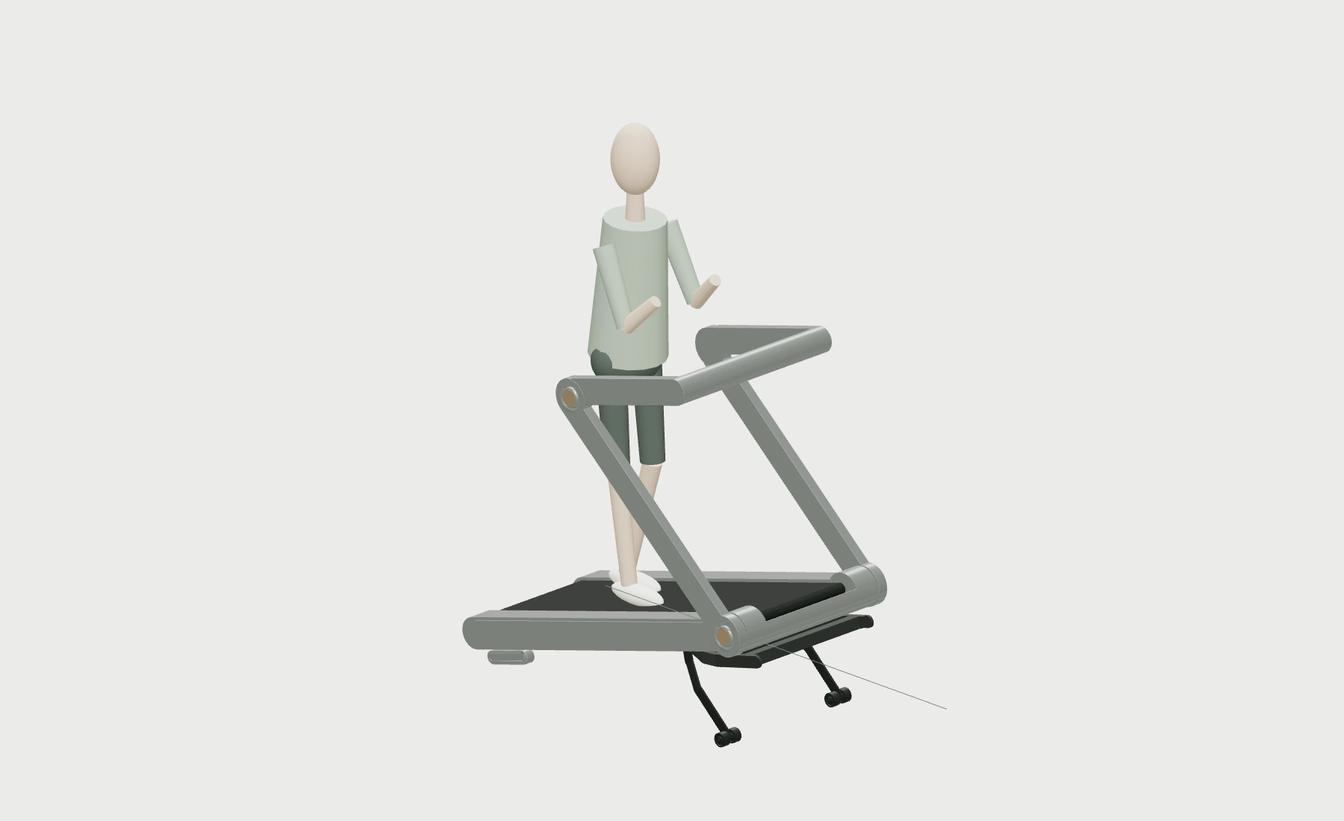
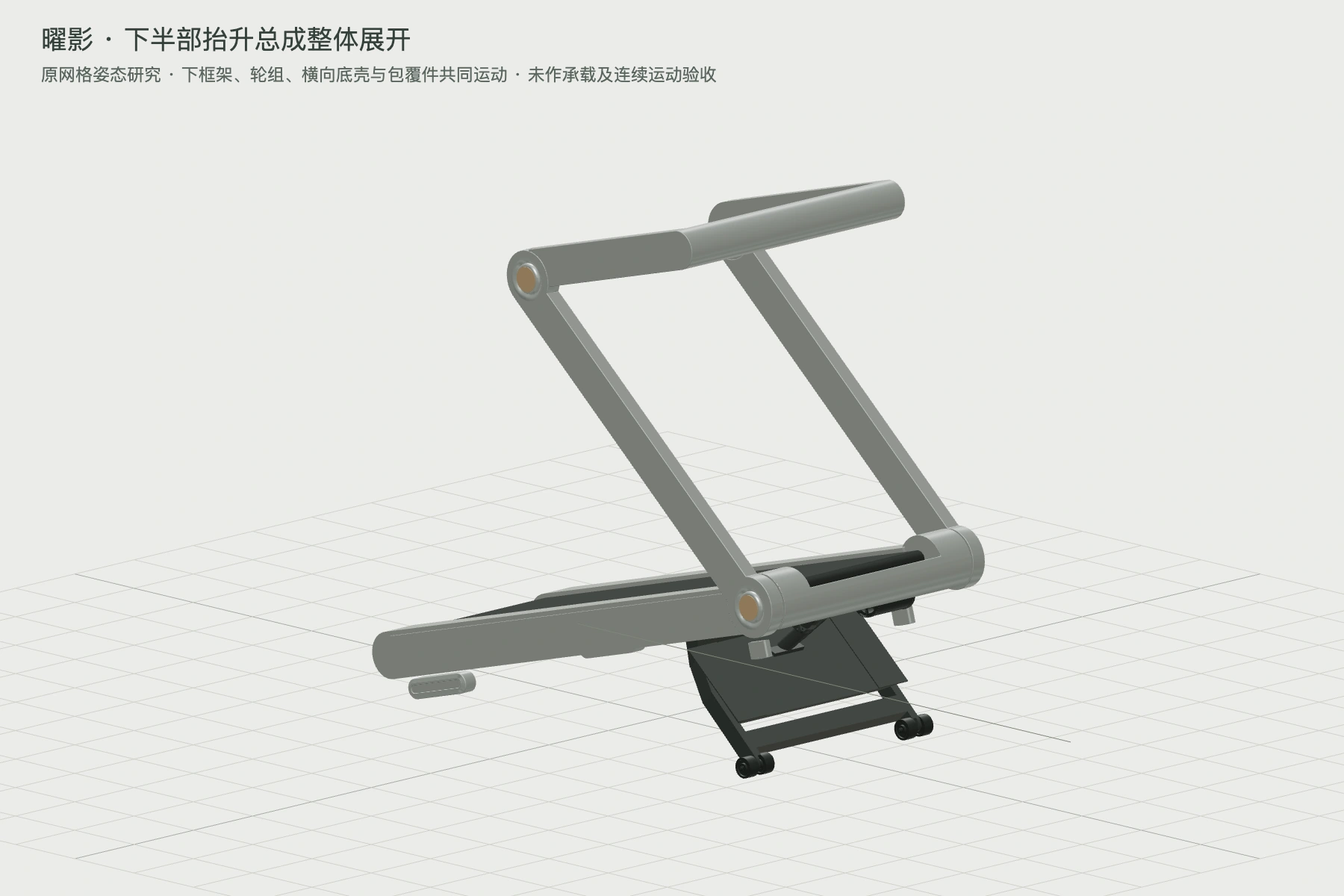
Move complete Origin lower frame and covers together; verify belt-to-floor 15 degrees and replace rejected lift views

Changed region(s): [[0.2489, 0.1545, 0.7467, 0.9273], [0.0311, 0.0309, 0.5289, 0.0927]]

diff --git a/iterations/origin/index.html b/iterations/origin/index.html
@@ -6,7 +6,7 @@
 <main id="top"><section class="intro"><div><p class="eyebrow">曜影 / DESIGN REVIEW</p><h1>曜影</h1><p class="lead">整机、使用与收纳姿态、离合片及前方出线。</p></div><div class="review-label"><span class="dot"></span>独立评审稿<span>整机 / 动作 / 选项</span></div></section>
 <div class="review-navigation"><nav class="single-navigation" aria-label="本方案目录"><a href="#whole">整机</a><a href="#incline-15">15°抬升态</a><a href="#motion">模型与动作</a><a href="#finishing">局部与选项</a><a href="#panels">面板提案</a></nav><button class="model-launch" id="open-model"><strong>进入曜影3D模型</strong><span>本方案独立模型 →</span></button></div>
 <section id="whole" aria-label="整机与家居效果图"><div class="section-heading"><span class="section-number">01</span><h2>整机形态</h2><p>点开图片，可放大查看</p></div><article class="product" data-product="origin"><section id="origin-indirect-edge-current" style="margin:24px 0;padding:24px;background:#e9e7e1"><h3>侧饰件整圈漫反射 · 后横梁保持银色不发光</h3><p>当前近景以用户指定最正确的R2原图为准，金属、轴心与橙色光晕保持原样。整机仅去掉后横梁多加的灯光：整圈指侧面长饰件的轮廓，不延伸到后横梁。当前为外观稿，未改入STEP。</p><figure style="margin:24px auto;max-width:1120px"><button class="zoom" data-image="https://calfnai.github.io/lijiujia-z7pro-model/iterations/origin-rear-unlit-20261115/whole.webp" data-title="曜影 · 整机 · 侧饰件漫反射，后横梁不发光" aria-label="放大整机 · 侧饰件漫反射，后横梁不发光" style="display:block;width:100%;padding:0;border:0;background:transparent"><img src="https://calfnai.github.io/lijiujia-z7pro-model/iterations/origin-rear-unlit-20261115/whole.webp" alt="曜影 · 整机 · 侧饰件漫反射，后横梁不发光" loading="lazy" width="1448" height="1086" style="width:100%;height:auto;aspect-ratio:auto;object-fit:contain"></button><figcaption>整机 · 侧饰件漫反射，后横梁不发光 · 内置imagegen生成，待评审。</figcaption></figure><figure style="margin:24px auto;max-width:1120px"><button class="zoom" data-image="https://calfnai.github.io/lijiujia-z7pro-model/iterations/origin-indirect-edge-r2-20261115/edge-detail.webp" data-title="曜影 · 近景 · 用户指定R2基准，原图保持" aria-label="放大近景 · 用户指定R2基准，原图保持" style="display:block;width:100%;padding:0;border:0;background:transparent"><img src="https://calfnai.github.io/lijiujia-z7pro-model/iterations/origin-indirect-edge-r2-20261115/edge-detail.webp" alt="曜影 · 近景 · 用户指定R2基准，原图保持" loading="lazy" width="2087" height="754" style="width:100%;height:auto;aspect-ratio:auto;object-fit:contain"></button><figcaption>近景 · 用户指定R2基准，原图保持 · 内置imagegen生成，待评审。</figcaption></figure></section><details id="origin-earlier-visuals" style="margin: 24px 0px; padding: 18px; border: 1px solid rgb(204, 204, 204);"><summary>此前整机与场景图 · 已退出当前外观评审；原STEP与尺寸留作参考</summary><div class="product-heading"><div><span class="eyebrow">02 / ORIGIN</span><h2>曜影<span>新全域STEP基准 · 按8张补图补齐整机姿态</span></h2></div><span class="source-tag">AI外观提案 · STEP结构参考保留</span></div><section id="origin-child-height-check" style="padding:24px;margin:24px 0;border:1px solid #d4d8cc;background:#f0f1e9"><h3>120cm儿童适配核对 · 尚未满足使用态放行条件</h3><p>实测可以调低，不等于儿童用得舒服或用途合规。当前57°姿态：横梁顶部距跑面878mm、圆弧中心830mm；上下轴距1010mm。侧臂中心距680mm、净距640mm，有效跑面1300×435mm。</p><figure><button class="zoom" data-image="https://calfnai.github.io/lijiujia-z7pro-model/iterations/origin-child-fit-20261115/height-check.webp" data-title="曜影120cm尺寸核对 · 未开放儿童运行态" aria-label="放大120cm适配尺寸核对"><img src="https://calfnai.github.io/lijiujia-z7pro-model/iterations/origin-child-fit-20261115/height-check.webp" alt="曜影实际尺寸与1200mm身高尺对比，不代表儿童适用" loading="lazy" width="1800" height="1150"><span class="zoom-icon">↗</span></button></figure><p>中心高度700/740/780mm对应立柱约45.2°/48.5°/52.1°，仅上端两件未检出实体相交；这些是试算目标，未认定为儿童舒适范围。39°旧候选仍有约1288mm³相交。指定握持、全机构、锁止、急停与儿童尺寸适配尚未验证。</p><p>按中国大陆普通家用用途核查：现行GB 17498.1-2008不覆盖儿童专用健身器材；范围排除并非法律一概禁止，但不能以成人设备的标准符合性证明儿童用途。2026版国标于2027-10-01实施。仅凭120cm身高无法确定肘高、握持和舒适可达；年龄与步行/跑步用途尚未明确。因此本轮保留成人基准和九图，不发布儿童运行3D档位。</p></section><section id="origin-native-source-20261115"><p><a href="https://calfnai.github.io/lijiujia-z7pro-model/iterations/origin/model.html?rev=incline-contact-r2-20261115" target="_blank" rel="noopener">打开曜影全域版3D：使用、折平、竖放与透明装配 ↗</a></p><div class="gallery"><figure><button class="zoom" data-image="https://calfnai.github.io/lijiujia-z7pro-model/iterations/origin-native-20261115/origin-source-45.webp" data-title="曜影 · 使用态 · 机头侧45°" aria-label="放大：使用态 · 机头侧45°"><img src="https://calfnai.github.io/lijiujia-z7pro-model/iterations/origin-native-20261115/origin-source-45.webp" alt="曜影 · 使用态 · 机头侧45°" loading="lazy" width="1600" height="1200"><span class="zoom-icon">↗</span></button><figcaption><strong>使用态 · 机头侧45°</strong><span>前横梁、下置机头及原轮组保留。</span></figcaption></figure><figure><button class="zoom" data-image="https://calfnai.github.io/lijiujia-z7pro-model/iterations/origin-native-20261115/origin-source-right.webp" data-title="曜影 · 使用态 · 操作台侧45°" aria-label="放大：使用态 · 操作台侧45°"><img src="https://calfnai.github.io/lijiujia-z7pro-model/iterations/origin-native-20261115/origin-source-right.webp" alt="曜影 · 使用态 · 操作台侧45°" loading="lazy" width="1600" height="1200"><span class="zoom-icon">↗</span></button><figcaption><strong>使用态 · 操作台侧45°</strong><span>黑屏、红色按键按原几何分区。</span></figcaption></figure><figure><button class="zoom" data-image="https://calfnai.github.io/lijiujia-z7pro-model/iterations/origin-native-20261115/origin-source-person.webp" data-title="曜影 · 使用态 · 175cm比例人形" aria-label="放大：使用态 · 175cm比例人形"><img src="https://calfnai.github.io/lijiujia-z7pro-model/iterations/origin-native-20261115/origin-source-person.webp" alt="曜影 · 使用态 · 175cm比例人形" loading="lazy" width="1600" height="1200"><span class="zoom-icon">↗</span></button><figcaption><strong>使用态 · 175cm比例人形</strong><span>人物只用于尺度观察。</span></figcaption></figure><figure><button class="zoom" data-image="https://calfnai.github.io/lijiujia-z7pro-model/iterations/origin-native-20261115/origin-source-side.webp" data-title="曜影 · 使用态 · 正侧面" aria-label="放大：使用态 · 正侧面"><img src="https://calfnai.github.io/lijiujia-z7pro-model/iterations/origin-native-20261115/origin-source-side.webp" alt="曜影 · 使用态 · 正侧面" loading="lazy" width="1600" height="1200"><span class="zoom-icon">↗</span></button><figcaption><strong>使用态 · 正侧面</strong><span>立柱约57°、扶手水平，按补图对齐。</span></figcaption></figure><figure><button class="zoom" data-image="https://calfnai.github.io/lijiujia-z7pro-model/iterations/origin-native-20261115/origin-bottom.webp" data-title="曜影 · 原装配 · 机底" aria-label="放大：原装配 · 机底"><img src="https://calfnai.github.io/lijiujia-z7pro-model/iterations/origin-native-20261115/origin-bottom.webp" alt="曜影 · 原装配 · 机底" loading="lazy" width="1600" height="1200"><span class="zoom-icon">↗</span></button><figcaption><strong>原装配 · 机底</strong><span>保留原支架、驱动与下置机头，未用旧低罩替换源件。</span></figcaption></figure><figure><button class="zoom" data-image="https://calfnai.github.io/lijiujia-z7pro-model/iterations/origin-native-20261115/origin-fold.webp" data-title="曜影 · 折平 · 斜上方" aria-label="放大：折平 · 斜上方"><img src="https://calfnai.github.io/lijiujia-z7pro-model/iterations/origin-native-20261115/origin-fold.webp" alt="曜影 · 折平 · 斜上方" loading="lazy" width="1600" height="1200"><span class="zoom-icon">↗</span></button><figcaption><strong>折平 · 斜上方</strong><span>按补图对齐终态；全程扫掠与锁止仍待核对。</span></figcaption></figure><figure><button class="zoom" data-image="https://calfnai.github.io/lijiujia-z7pro-model/iterations/origin-native-20261115/origin-fold-side.webp" data-title="曜影 · 折平 · 正侧面" aria-label="放大：折平 · 正侧面"><img src="https://calfnai.github.io/lijiujia-z7pro-model/iterations/origin-native-20261115/origin-fold-side.webp" alt="曜影 · 折平 · 正侧面" loading="lazy" width="1600" height="1200"><span class="zoom-icon">↗</span></button><figcaption><strong>折平 · 正侧面</strong><span>原上端与下端几何保留，未压扁或缩小扶手。</span></figcaption></figure><figure><button class="zoom" data-image="https://calfnai.github.io/lijiujia-z7pro-model/iterations/origin-native-20261115/origin-stand.webp?rev=upright-90-20261115" data-title="曜影 · 竖放 · 机底" aria-label="放大：竖放 · 机底"><img src="https://calfnai.github.io/lijiujia-z7pro-model/iterations/origin-native-20261115/origin-stand.webp?rev=upright-90-20261115" alt="曜影 · 竖放 · 机底" loading="lazy" width="1600" height="1200"><span class="zoom-icon">↗</span></button><figcaption><strong>竖放 · 机底</strong><span>机头向下、机底朝外，按用户补图方向摆放。</span></figcaption></figure><figure><button class="zoom" data-image="https://calfnai.github.io/lijiujia-z7pro-model/iterations/origin-native-20261115/origin-stand-side.webp?rev=upright-90-20261115" data-title="曜影 · 竖放 · 正侧面" aria-label="放大：竖放 · 正侧面"><img src="https://calfnai.github.io/lijiujia-z7pro-model/iterations/origin-native-20261115/origin-stand-side.webp?rev=upright-90-20261115" alt="曜影 · 竖放 · 正侧面" loading="lazy" width="1600" height="1200"><span class="zoom-icon">↗</span></button><figcaption><strong>竖放 · 正侧面</strong><span>原轮组、机头与脚垫保留；最终支撑与稳定性未验证。</span></figcaption></figure></div><p>105项按姿态展示，5项未归位小件仍保留在“源保存态”。使用/折平角度按补图估读；39°调低姿态发现上端实体干涉，暂不开放。折叠过程抽样核对未完成，滑条暂不开放；未验证左右解锁、锁止、线束与连续扫掠。爬坡驱动与竖放支撑仍待核对。</p><p>既有120°开口的单轴出线、机底外观及离合片入口保留在下方；本次新装配尚未完整合入这些提议。</p></section><section id="lifestyle-scene-origin" style="margin:32px 0;padding:24px;background:#e9e7e1"><h3>曜影 · 成人与120cm身高适配场景</h3><p>沿用同一台全域跑台，分别表现成人57°基准姿态和立柱约48.5°的儿童适配概念。尺寸来自STEP；AI人物与场景仅供比例和外观评审，不是人体工学或儿童安全验证。</p><figure style="max-width:960px;margin:24px auto"><h4>成人使用状态 · 175cm身高参照</h4><button class="zoom" data-image="https://calfnai.github.io/lijiujia-z7pro-model/iterations/origin-use-scenes-20261115/adult-use.webp" data-title="曜影 · 成人使用状态 · 175cm身高参照" aria-label="放大成人使用状态 · 175cm身高参照" style="display:block;width:100%;padding:0;border:0;background:transparent"><img src="https://calfnai.github.io/lijiujia-z7pro-model/iterations/origin-use-scenes-20261115/adult-use.webp" alt="曜影adult普通家居场景，成人使用状态 · 175cm身高参照" loading="lazy" width="1448" height="1086" style="width:100%;height:auto;object-fit:contain"></button><figcaption>前横梁顶部距跑面878mm，圆弧中心830mm。 内置imagegen生成，待评审。</figcaption></figure><figure style="max-width:960px;margin:24px auto"><h4>120cm身高适配概念 · 儿童使用安全尚未验证</h4><button class="zoom" data-image="https://calfnai.github.io/lijiujia-z7pro-model/iterations/origin-use-scenes-20261115/child-use.webp" data-title="曜影 · 120cm身高适配概念 · 儿童使用安全尚未验证" aria-label="放大120cm身高适配概念 · 儿童使用安全尚未验证" style="display:block;width:100%;padding:0;border:0;background:transparent"><img src="https://calfnai.github.io/lijiujia-z7pro-model/iterations/origin-use-scenes-20261115/child-use.webp" alt="曜影child普通家居场景，120cm身高适配概念 · 儿童使用安全尚未验证" loading="lazy" width="1448" height="1086" style="width:100%;height:auto;object-fit:contain"></button><figcaption>前横梁顶部距跑面约788mm，圆弧中心740mm；保持1010mm立柱轴距和1300×435mm有效跑面。 内置imagegen生成，待评审。</figcaption></figure></section></details></article></section>
-<section id="incline-15"><div class="section-heading"><span class="section-number">15°</span><h2>抬升态正在纠正</h2></div><p>此前抬升图已撤回。按跑台工作面相对水平地面15°重新核对，下半部抬升总成整体展开，不能只伸出两只脚。</p></section><section id="motion"><div class="section-heading"><span class="section-number">02</span><h2>模型与动作</h2><p>曜影</p></div><div class="motion-shell"><div class="motion-poster" id="motion-poster"><img id="motion-cover" src="https://calfnai.github.io/lijiujia-z7pro-model/iterations/origin-rear-unlit-20261115/whole.webp" alt="凌序模型演示预览" width="1600" height="1200" loading="lazy"><div><p>从静态，进入动作。</p><button id="start-model">启动模型演示 <span>↗</span></button><small>本轮外观提案作封面；进入后为原STEP结构参考，藏光尚未合入三维。</small></div></div><iframe id="model-frame" title="曜影独立模型" hidden=""></iframe><p id="model-error" hidden="" role="alert">模型暂未载入。<button id="retry-model">重试</button></p></div><p class="caption-note">模型用于外观与动作评审；工程核验状态以模型内说明为准。</p></section>
+<section id="incline-15"><div class="section-heading"><span class="section-number">15°</span><h2>工作面对地15.0° · 下半部总成整体展开</h2><p>正侧投影核对实际夹角，原下壳与轮架共同运动</p></div><p>工作面长1300mm，对应高差336.5mm、水平投影1255.7mm。四只轮子与后支撑接地；下框架、横向底壳和包覆件共同展开。本组为结构姿态评审，未完成连续扫掠、推杆限位及承载验证。</p><div class="gallery"><figure><button class="zoom" data-image="https://calfnai.github.io/lijiujia-z7pro-model/iterations/origin/incline-15-side.webp?rev=origin-lift-total-20261115" data-title="曜影 · 正侧面 · 工作面与水平地面15.0°" aria-label="放大正侧面 · 工作面与水平地面15.0°"><img src="https://calfnai.github.io/lijiujia-z7pro-model/iterations/origin/incline-15-side.webp?rev=origin-lift-total-20261115" alt="曜影 · 正侧面 · 工作面与水平地面15.0°" loading="lazy" width="1800" height="1200" style="aspect-ratio:auto"><span class="zoom-icon">↗</span></button><figcaption>正侧面 · 工作面与水平地面15.0° · 原STEP网格姿态，待评审。</figcaption></figure><figure><button class="zoom" data-image="https://calfnai.github.io/lijiujia-z7pro-model/iterations/origin/incline-15-left.webp?rev=origin-lift-total-20261115" data-title="曜影 · 前下方 · 完整下部总成共同展开" aria-label="放大前下方 · 完整下部总成共同展开"><img src="https://calfnai.github.io/lijiujia-z7pro-model/iterations/origin/incline-15-left.webp?rev=origin-lift-total-20261115" alt="曜影 · 前下方 · 完整下部总成共同展开" loading="lazy" width="1800" height="1200" style="aspect-ratio:auto"><span class="zoom-icon">↗</span></button><figcaption>前下方 · 完整下部总成共同展开 · 原STEP网格姿态，待评审。</figcaption></figure></div></section><section id="motion"><div class="section-heading"><span class="section-number">02</span><h2>模型与动作</h2><p>曜影</p></div><div class="motion-shell"><div class="motion-poster" id="motion-poster"><img id="motion-cover" src="https://calfnai.github.io/lijiujia-z7pro-model/iterations/origin-rear-unlit-20261115/whole.webp" alt="凌序模型演示预览" width="1600" height="1200" loading="lazy"><div><p>从静态，进入动作。</p><button id="start-model">启动模型演示 <span>↗</span></button><small>本轮外观提案作封面；进入后为原STEP结构参考，藏光尚未合入三维。</small></div></div><iframe id="model-frame" title="曜影独立模型" hidden=""></iframe><p id="model-error" hidden="" role="alert">模型暂未载入。<button id="retry-model">重试</button></p></div><p class="caption-note">模型用于外观与动作评审；工程核验状态以模型内说明为准。</p></section>
 <!-- FOLD-ACCESS-START --><!-- FOLD-ACCESS-END --><section id="finishing"><div class="section-heading"><span class="section-number">03</span><h2>点睛之笔</h2><p>整机与动作之后，再看细节</p></div><details><summary>此前机构与外观图 · 仅作参考，未统一为本轮外观</summary><div data-detail="origin"><div class="detail-heading"><h3>曜影 · 机构与包覆</h3><p>离合片、机底、原抬升架与前方摆动出线，延续同一整机方案。</p></div><a class="origin-clutch-entry" id="origin-clutch-3d" href="https://calfnai.github.io/lijiujia-z7pro-model/iterations/source-detail-20261112/origin-detail.html?rev=origin-easycord-scene-r2-20261115#joint" target="_blank" rel="noopener"><img src="https://calfnai.github.io/lijiujia-z7pro-model/iterations/source-detail-20261112/origin-r3-coupled.webp?rev=origin-cord-bottom-20261114" alt="曜影离合片3D操作预览" width="1480" height="980" loading="lazy"><span><strong>进入曜影离合片 3D · 按钮耦合／解耦 ↗</strong><span>旋转查看结构，按下按钮退开齿盘，拖动扶手角度，再松开查看接合；支持剖视与零件展开。</span><small>沿用既有 R3 模型 · 30齿／12°档距 · 演示行程与承载仍待工程核验</small></span></a><div id="origin-cord-bottom-current" class="details-grid"><figure class="detail-card"><button class="zoom" data-image="https://calfnai.github.io/lijiujia-z7pro-model/iterations/origin-cord-bottom-20261114/stand.webp?rev=origin-cord-bottom-20261114-cbc67bc7" data-title="竖放也值得看 · 连续机底曲面" aria-label="放大：竖放也值得看 · 连续机底曲面"><img src="https://calfnai.github.io/lijiujia-z7pro-model/iterations/origin-cord-bottom-20261114/stand.webp?rev=origin-cord-bottom-20261114-cbc67bc7" alt="竖放也值得看 · 连续机底曲面" width="1600" height="1200" loading="lazy"><span class="zoom-icon">↗</span></button><figcaption><strong>竖放也值得看 · 连续机底曲面</strong><span>银框内收、微拱主壳与圆润电机舱；待评审</span></figcaption></figure><figure class="detail-card"><button class="zoom" data-image="https://calfnai.github.io/lijiujia-z7pro-model/iterations/origin-cord-bottom-20261114/bottom.webp?rev=origin-cord-bottom-20261114-cbc67bc7" data-title="机底整体 · 曲面与一笔橙线" aria-label="放大：机底整体 · 曲面与一笔橙线"><img src="https://calfnai.github.io/lijiujia-z7pro-model/iterations/origin-cord-bottom-20261114/bottom.webp?rev=origin-cord-bottom-20261114-cbc67bc7" alt="机底整体 · 曲面与一笔橙线" width="1600" height="1200" loading="lazy"><span class="zoom-icon">↗</span></button><figcaption><strong>机底整体 · 曲面与一笔橙线</strong><span>保留原零件，以真实壳面包覆；不是替换原机构</span></figcaption></figure><figure class="detail-card"><button class="zoom" data-image="https://calfnai.github.io/lijiujia-z7pro-model/iterations/origin-cord-bottom-20261114/lift-bottom.webp?rev=origin-cord-bottom-20261114-cbc67bc7" data-title="抬升时 · 原架体与横桥展开" aria-label="放大：抬升时 · 原架体与横桥展开"><img src="https://calfnai.github.io/lijiujia-z7pro-model/iterations/origin-cord-bottom-20261114/lift-bottom.webp?rev=origin-cord-bottom-20261114-cbc67bc7" alt="抬升时 · 原架体与横桥展开" width="1600" height="1200" loading="lazy"><span class="zoom-icon">↗</span></button><figcaption>原抬升架结构参考 · 保留原部件，当前抬升目标角度统一为15°</figcaption></figure><figure class="detail-card"><button class="zoom" data-image="https://calfnai.github.io/lijiujia-z7pro-model/iterations/origin-cord-bottom-20261114/cord-up.webp?rev=origin-easycord-scene-r2-20261115" data-title="T-fal式出线 · 最高朝天" aria-label="放大：T-fal式出线 · 最高朝天"><img src="https://calfnai.github.io/lijiujia-z7pro-model/iterations/origin-cord-bottom-20261114/cord-up.webp?rev=origin-easycord-scene-r2-20261115" alt="T-fal式出线 · 最高朝天" width="1600" height="1200" loading="lazy"><span class="zoom-icon">↗</span></button><figcaption><strong>T-fal式出线 · 最高朝天</strong><span>按T-fal实物重做：一体短槽护套与连续连接筋；开口纵向120°</span></figcaption></figure><figure class="detail-card"><button class="zoom" data-image="https://calfnai.github.io/lijiujia-z7pro-model/iterations/origin-cord-bottom-20261114/cord-down.webp?rev=origin-easycord-scene-r2-20261115" data-title="T-fal式出线 · 最低向前斜下30°" aria-label="放大：T-fal式出线 · 最低向前斜下30°"><img src="https://calfnai.github.io/lijiujia-z7pro-model/iterations/origin-cord-bottom-20261114/cord-down.webp?rev=origin-easycord-scene-r2-20261115" alt="T-fal式出线 · 最低向前斜下30°" width="1600" height="1200" loading="lazy"><span class="zoom-icon">↗</span></button><figcaption><strong>T-fal式出线 · 最低向前斜下30°</strong><span>同一Z轴、同一平面；护套取消独立圆环，保持连续实体</span></figcaption></figure><figure class="detail-card"><button class="zoom" data-image="https://calfnai.github.io/lijiujia-z7pro-model/iterations/origin-cord-bottom-20261114/fold-side.webp?rev=origin-cord-bottom-20261114-cbc67bc7" data-title="折平侧面核对" aria-label="放大：折平侧面核对"><img src="https://calfnai.github.io/lijiujia-z7pro-model/iterations/origin-cord-bottom-20261114/fold-side.webp?rev=origin-cord-bottom-20261114-cbc67bc7" alt="折平侧面核对" width="1600" height="1200" loading="lazy"><span class="zoom-icon" aria-hidden="true">↗</span></button><figcaption><strong>折平侧面核对</strong><span>同一个模型 · 原123°端点仍待接合</span></figcaption></figure><figure class="detail-card"><button class="zoom" data-image="https://calfnai.github.io/lijiujia-z7pro-model/iterations/source-detail-20261112/origin-r3-coupled.webp?rev=origin-cord-bottom-20261114" data-title="① 松手复位 · 齿面接合" aria-label="放大：① 松手复位 · 齿面接合"><img src="https://calfnai.github.io/lijiujia-z7pro-model/iterations/source-detail-20261112/origin-r3-coupled.webp?rev=origin-cord-bottom-20261114" alt="① 松手复位 · 齿面接合" width="1600" height="1200" loading="lazy"><span class="zoom-icon" aria-hidden="true">↗</span></button><figcaption><strong>① 松手复位 · 齿面接合</strong><span>齿峰进入齿谷 · 可切换3D近看与展开剖面</span></figcaption></figure><figure class="detail-card"><button class="zoom" data-image="https://calfnai.github.io/lijiujia-z7pro-model/iterations/source-detail-20261112/origin-r3-decoupled.webp?rev=origin-cord-bottom-20261114" data-title="② 按下按钮 · 齿盘退开" aria-label="放大：② 按下按钮 · 齿盘退开"><img src="https://calfnai.github.io/lijiujia-z7pro-model/iterations/source-detail-20261112/origin-r3-decoupled.webp?rev=origin-cord-bottom-20261114" alt="② 按下按钮 · 齿盘退开" width="1600" height="1200" loading="lazy"><span class="zoom-icon" aria-hidden="true">↗</span></button><figcaption><strong>② 按下按钮 · 齿盘退开</strong><span>退开10 mm · 弹簧压缩，齿面分离；演示参数待核验</span></figcaption></figure><figure class="detail-card"><button class="zoom" data-image="https://calfnai.github.io/lijiujia-z7pro-model/iterations/source-detail-20261112/origin-r3-pending.webp" data-title="③ 未对齿 · 尚未接合" aria-label="放大：③ 未对齿 · 尚未接合"><img src="https://calfnai.github.io/lijiujia-z7pro-model/iterations/source-detail-20261112/origin-r3-pending.webp" alt="③ 未对齿 · 尚未接合" width="1600" height="1200" loading="lazy"><span class="zoom-icon" aria-hidden="true">↗</span></button><figcaption><strong>③ 未对齿 · 尚未接合</strong><span>松手后齿顶相抵 · 微调对齿后才接合</span></figcaption></figure></div><p class="small">2026.11.14 · 出线与机底已改入网页同一模型；下载STEP仍为删旧扳机的源装配。参考 T-fal Easycord实物。<br><a href="https://calfnai.github.io/lijiujia-z7pro-model/iterations/source-detail-20261112/origin-detail.html?rev=origin-easycord-scene-r2-20261115" target="_blank" rel="noopener">进入曜影既有R3细节操作 ↗</a> · <a href="https://calfnai.github.io/lijiujia-z7pro-model/iterations/source-detail-20261112/origin-without-legacy-trigger.step.zip" target="_blank" rel="noopener">下载删旧扳机后的STEP</a></p></div></details></section><section id="panels"><div class="section-heading"><span class="section-number">04</span><h2>面板提案</h2><p>既有三款候选 · 待评审</p></div><details><summary>此前面板候选 · 仅作参考，未统一为本轮外观</summary><div class="details-grid"><figure><button class="zoom" data-image="https://calfnai.github.io/lijiujia-z7pro-model/iterations/panel-redesign-v03-20261115/B1.png" data-title="曜影面板 B1" aria-label="放大面板 B1"><img src="https://calfnai.github.io/lijiujia-z7pro-model/iterations/panel-redesign-v03-20261115/B1.png" alt="曜影面板 B1" loading="lazy"><span class="zoom-icon">↗</span></button><figcaption>曜影 · B1（候选）</figcaption></figure><figure><button class="zoom" data-image="https://calfnai.github.io/lijiujia-z7pro-model/iterations/panel-redesign-v03-20261115/B2.png" data-title="曜影面板 B2" aria-label="放大面板 B2"><img src="https://calfnai.github.io/lijiujia-z7pro-model/iterations/panel-redesign-v03-20261115/B2.png" alt="曜影面板 B2" loading="lazy"><span class="zoom-icon">↗</span></button><figcaption>曜影 · B2（候选）</figcaption></figure><figure><button class="zoom" data-image="https://calfnai.github.io/lijiujia-z7pro-model/iterations/panel-redesign-v03-20261115/B3.png" data-title="曜影面板 B3" aria-label="放大面板 B3"><img src="https://calfnai.github.io/lijiujia-z7pro-model/iterations/panel-redesign-v03-20261115/B3.png" alt="曜影面板 B3" loading="lazy"><span class="zoom-icon">↗</span></button><figcaption>曜影 · B3（候选）</figcaption></figure></div><p class="caption-note">沿用已生成的固定面板候选图，尚未映射至本款三维模型；不代表定稿。</p></details></section><section id="selected-scope"><div class="section-heading"><span class="section-number">05</span><h2>厂商选用项</h2></div><p>镜面底面与额外增稳机构为本方案的厂商可选项，具体采用范围待深化评估。</p></section>
 
 <footer><span>LIJIUJIA / 曜影</span><a href="#top">回到顶部 ↑</a></footer></main>

diff --git a/iterations/origin/model.html b/iterations/origin/model.html
@@ -87,7 +87,7 @@
  /*GROUNDED_INCLINE_R2*/
  function installGroundedLift({T,slug,body,sourceMap,meshes,meta}){
  const cfg={linear:{frame:'#o1.60.',act:'#o1.62.',foot:'#o1.69'},origin:{frame:'#o1.66.',act:'#o1.69.',foot:'#o1.79'},xinghu:{frame:'#o1.66.',act:'#o1.68.',foot:'#o1.71'}}[slug],off=meta.sourceTransform,V=p=>new T.Vector3((p[0]+off.xOffsetMM)/1000,(p[1]+off.yOffsetMM)/1000,0),F=V([486.8715102,53.1434312]),A=V([199.408,70.247]),B=V([392.47,1.324]),axis=new T.Vector3(0,0,1);
- const frame=meshes.filter(m=>m.userData.sourceRef.startsWith(cfg.frame)),act=meshes.filter(m=>m.userData.sourceRef.startsWith(cfg.act)),wheels=frame.filter(m=>[2,3,12,13].some(i=>m.userData.sourceRef===cfg.frame+i)),rod=sourceMap.get(cfg.act+'6'),ab=B.clone().sub(A),base=ab.length();
+ const frame=meshes.filter(m=>m.userData.sourceRef.startsWith(cfg.frame)||slug==='origin'&&['#o1.77','#o1.80'].includes(m.userData.sourceRef)),act=meshes.filter(m=>m.userData.sourceRef.startsWith(cfg.act)),wheels=frame.filter(m=>[2,3,12,13].some(i=>m.userData.sourceRef===cfg.frame+i)),rod=sourceMap.get(cfg.act+'6'),ab=B.clone().sub(A),base=ab.length();
  const frameGroup=slug==='linear'?frame[0].parent:new T.Group(),actGroup=slug==='linear'?act[0].parent:new T.Group();
  if(slug!=='linear'){frameGroup.position.copy(F);actGroup.position.copy(A);body.add(frameGroup,actGroup);for(const m of frame){frameGroup.add(m);m.position.copy(F).negate()}for(const m of act){actGroup.add(m);m.position.copy(A).negate()}}
  const nativePositions=new Map([...frame,...act].map(m=>[m,m.position.clone()]));
@@ -146,8 +146,8 @@ function installInclineReview({T,body,belt,meshes,scene,renderer,human,fit,human
  const inclineBasePose=pose;pose=function(){inclineReview.clear();inclineBasePose();};
  let initialIncline=new URLSearchParams(location.search).get('incline')==='15';
  const inclineBaseSetPose=setPose;setPose=function(p={}){const requested=initialIncline||Number(p.slope)>0||p.state==='climb'||p.state==='lift';initialIncline=false;inclineBaseSetPose({...p,slope:0,state:requested?'normal':p.state});if(requested)inclineReview.apply();};
- let inclineButton=$('review-climb');if(!inclineButton){inclineButton=document.createElement('button');inclineButton.id='review-climb';$('review-reset').before(inclineButton);}inclineButton.textContent='抬升态 · 跑台对地15°';inclineButton.disabled=true;inclineButton.textContent='抬升态纠正中 · 暂停旧姿态';inclineButton.onclick=()=>{};
- const inclineNote=document.createElement('p');inclineNote.id='incline-reference-note';inclineNote.textContent='抬升态统一为跑台工作面与水平地面15°。抬升架随姿态展开、轮组保持接地；已检出原CAD局部实体重叠，推杆限位及承载仍待核验。';inclineButton.after(inclineNote);
+ let inclineButton=$('review-climb');if(!inclineButton){inclineButton=document.createElement('button');inclineButton.id='review-climb';$('review-reset').before(inclineButton);}inclineButton.textContent='抬升态 · 跑台对地15°';inclineButton.disabled=false;inclineButton.textContent='抬升态 · 工作面对地15°';inclineButton.onclick=()=>setPose({slope:15,human:person,angle:view});
+ const inclineNote=document.createElement('p');inclineNote.id='incline-reference-note';inclineNote.textContent='抬升态统一为跑台工作面与水平地面15°。下框架、轮组、横向底壳和包覆件作为同一总成展开，轮组保持接地；当前为装配姿态研究，连续扫掠、连接和承载仍待核验。';inclineButton.after(inclineNote);
  /*END_GROUNDED_INCLINE_R2*/
   window.productReview={model:'origin',sourceInstances:meta.occurrences,sourceMeshes:meshes,sourceSha256:meta.sourceSha256,scene,camera,renderer,human,setPose,fit,get state(){return state},get postAngle(){return postAngle},get active(){return {body,post:sourceMap.get('#o1.78'),handle:sourceMap.get('#o1.81'),support:meshes.filter(m=>m.userData.sourceRef.startsWith('#o1.66')),sourceMeshes:meshes}},get upfold(){return upfold},get progress(){return fold},get slope(){return inclineReview.active?inclineReview.angle:slope},get standing(){return standing},get person(){return person},capture(){renderer.render(scene,camera);return renderer.domElement.toDataURL('image/webp',.95)},captureSize(w,h){const old=renderer.getSize(new T.Vector2()),pixel=renderer.getPixelRatio();renderer.setPixelRatio(1);renderer.setSize(w,h,false);camera.aspect=w/h;fit();const data=renderer.domElement.toDataURL('image/webp',.95);renderer.setPixelRatio(pixel);renderer.setSize(old.x,old.y,false);camera.aspect=old.x/old.y;fit();return data}};
  window.productReview.incline=()=>inclineReview.status();window.productReview.captureIncline=(view,w,h)=>inclineReview.capture(view,w,h);
